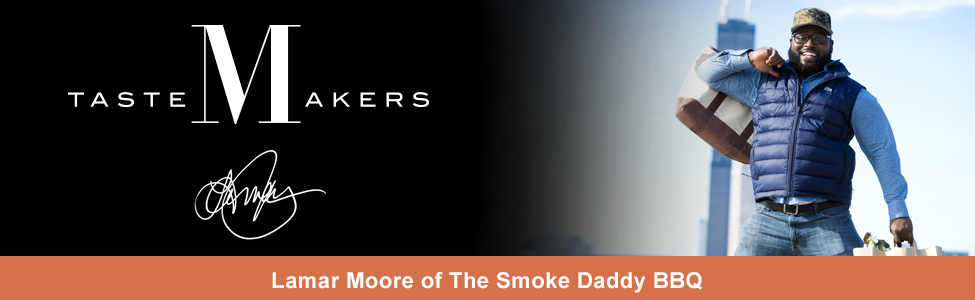
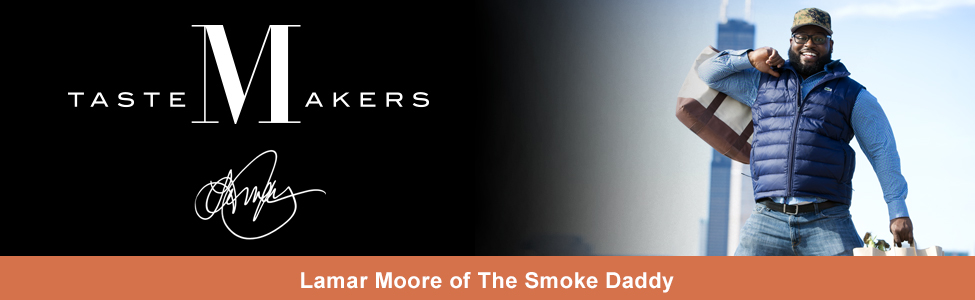
New update on lamar chart

Changed region(s): [[0.2769, 0.9, 0.7385, 0.96]]

diff --git a/asset/218/views/custom/lamarmoore.html b/asset/218/views/custom/lamarmoore.html
@@ -28,24 +28,29 @@
 			<div class="col-md-5 chefCart">
 				<h4>What’s in Lamar’s Cart</h4>
 				<div id="chef1" class="chefImageGallery" data-ng-init="tasteMakerName = 'lamarmoore'">
-         
-          <span 
-              data-model="{ id: '01', title: 'Wheat bread - Bread is always fresh never expiring dates, good soft loaves.', name: tasteMakerName }" 
-              data-ng-include="getContentUrl('/views/custom/gallery-item.html')" 
-              data-gsn-watch="" >
-          </span>
-          <span data-model="{ id: '02', title: 'Raisin brand crunch cereal - Great healthy alternative that\'s reasonably priced.', name: tasteMakerName }" data-ng-include="getContentUrl('/views/custom/gallery-item.html')" data-gsn-watch="" ></span>
-					<span data-model="{ id: '03', title: 'Jasmine rice - My family and I are huge rice consumers, and the bag size is enough for weeks at a time. The same quality of rice I use in my professional kitchen.', name: tasteMakerName }" data-ng-include="getContentUrl('/views/custom/gallery-item.html')" data-gsn-watch="" ></span>
-					<span data-model="{ id: '04', title: 'Lays potato chips - Good late night snack and never past expiration date.', name: tasteMakerName }" data-ng-include="getContentUrl('/views/custom/gallery-item.html')" data-gsn-watch="" ></span>
-          <span data-model="{ id: '05', title: 'Crew hair gel - One-stop shopping. Cheaper prices and I don\'t have to go to different store to buy.', name: tasteMakerName }" data-ng-include="getContentUrl('/views/custom/gallery-item.html')" data-gsn-watch="" ></span>
-          <span data-model="{ id: '06', title: 'Riesling - Most stores don\'t carry a great selection of wine, but here at Mariano\'s there is quite a bit of selection. I have had lots of great Reislings.', name: tasteMakerName }" data-ng-include="getContentUrl('/views/custom/gallery-item.html')" data-gsn-watch="" ></span>
-          <span data-model="{ id: '07', title: 'Fresh corn on Cobb - Love to grill corn on the Cobb or make corn salsa and is always a go to quick easy option.', name: tasteMakerName }" data-ng-include="getContentUrl('/views/custom/gallery-item.html')" data-gsn-watch="" ></span>
-          <span data-model="{ id: '07', title: 'Fresh corn on Cobb - Love to grill corn on the Cobb or make corn salsa and is always a go to quick easy option.', name: tasteMakerName }" data-ng-include="getContentUrl('/views/custom/gallery-item.html')" data-gsn-watch="" ></span>
-          <span data-model="{ id: '08', title: 'Fresh Asparagus - Love cooking with fresh vegetables and walking into any Mariano’s that\'s the first sight — makes you want to grab everything!', name: tasteMakerName }" data-ng-include="getContentUrl('/views/custom/gallery-item.html')" data-gsn-watch="" ></span>
-          <span data-model="{ id: '09', title: 'Ribeye steaks - The prices are always reasonable, great product, fresh, and enough to feed my family.', name: tasteMakerName }" data-ng-include="getContentUrl('/views/custom/gallery-item.html')" data-gsn-watch="" ></span>
-          <span data-model="{ id: '10', title: 'V8 juice - When trying to stay healthy and being on the go for work, my family and I make smoothies on the morning or just a plain ole cup of juice.', name: tasteMakerName }" data-ng-include="getContentUrl('/views/custom/gallery-item.html')" data-gsn-watch="" ></span>
-					<span data-model="{ id: '11', title: 'Premuim crab cakes - My family loves when I cook crab cakes, but I don\'t always feel up to it. One day I purchased these signature crab cakes, and they have been a hit ever since!', name: tasteMakerName }" data-ng-include="getContentUrl('/views/custom/gallery-item.html')" data-gsn-watch="" ></span>
-					<span data-model="{ id: '12', title: 'Chicken thighs - I feel it\'s the most flavorful part of the chicken, I can always find some of the best organic chicken, and antibiotic free at Mariano\'s.', name: tasteMakerName }" data-ng-include="getContentUrl('/views/custom/gallery-item.html')" data-gsn-watch="" ></span>
+					<span data-model="{ id: '01', title: 'Wheat bread: soft, fresh wheat bread.', name: tasteMakerName }" data-ng-include="getContentUrl('/views/custom/gallery-item.html')" data-gsn-watch="" >
+					</span>
+					<span data-model="{ id: '02', title: 'Raisin bran cereal: it’s a great healthy alternative that’s 	reasonably priced.', name: tasteMakerName }" data-ng-include="getContentUrl('/views/custom/gallery-item.html')" data-gsn-watch="" >
+					</span>
+					<span data-model="{ id: '03', title: 'Jasmine rice: My family and I are huge rice consumers, and the bag size is enough for weeks at a time. The same quality of rice I use in my professional kitchen.', name: tasteMakerName }" data-ng-include="getContentUrl('/views/custom/gallery-item.html')" data-gsn-watch="" >
+					</span>
+					<span data-model="{ id: '04', title: 'Lays should be Lay’s: great late-night snack.', name: tasteMakerName }" data-ng-include="getContentUrl('/views/custom/gallery-item.html')" data-gsn-watch="" >
+					</span>
+					<span data-model="{ id: '05', title: 'Crew hair gel: Mariano’s is one-stop shopping so I don’t have to go to another store to purchase.', name: tasteMakerName }" data-ng-include="getContentUrl('/views/custom/gallery-item.html')" data-gsn-watch="" >
+					</span>
+				    <span data-model="{ id: '06', title: 'Riesling: most stores don’t carry a great selection of wine, but at Mariano’s there’s quite a bit of selection.', name: tasteMakerName }" data-ng-include="getContentUrl('/views/custom/gallery-item.html')" data-gsn-watch="" >
+					</span>
+					<span data-model="{ id: '07', title: 'Fresh corn on the cob: I love to grill corn on the cob or make corn salsa.', name: tasteMakerName }" data-ng-include="getContentUrl('/views/custom/gallery-item.html')" data-gsn-watch="" >
+					</span>
+					<span data-model="{ id: '08', title: 'Fresh asparagus: I love cooking with fresh vegetables and that’s the first things you see when you walk into any Mariano’s - it makes you want to grab everything!', name: tasteMakerName }" data-ng-include="getContentUrl('/views/custom/gallery-item.html')" data-gsn-watch="" >
+					</span>
+					<span data-model="{ id: '09', title: 'Ribeye steaks: they are always fresh, reasonably priced and it’s always enough to feed my family.', name: tasteMakerName }" data-ng-include="getContentUrl('/views/custom/gallery-item.html')" data-gsn-watch="" >
+					</span>
+					<span data-model="{ id: '10', title: 'V8 juice: when trying to stay healthy and always on the go for work, this juice is perfect for my morning smoothies.', name: tasteMakerName }" data-ng-include="getContentUrl('/views/custom/gallery-item.html')" data-gsn-watch="" >
+					</span>
+					<span data-model="{ id: '11', title: 'Premium crab cakes: one day I purchased these signature crab cakes and they’ve been a hit ever since!', name: tasteMakerName }" data-ng-include="getContentUrl('/views/custom/gallery-item.html')" data-gsn-watch="" ></span>
+					<span data-model="{ id: '12', title: 'Chicken thighs: I feel they are the most flavorful part of the chicken.', name: tasteMakerName }" data-ng-include="getContentUrl('/views/custom/gallery-item.html')" data-gsn-watch="" >
+					</span>
 				</div>
             </div>
 			<div class="divider"></div>
@@ -55,7 +60,7 @@
                     <a href="http://www.thesmokedaddy.com/" target="_blank">
                         <img alt="http://www.animalechicago.com/" data-ng-src="{{getContentUrl('/images/lamarmoore/smokedaddylogo.jpg')}}" />
                     </a>
-					<h5>The Smoke Daddy BBQ</h5>
+					<h5>The Smoke Daddy</h5>
                 </div>
             </div> 
 			
